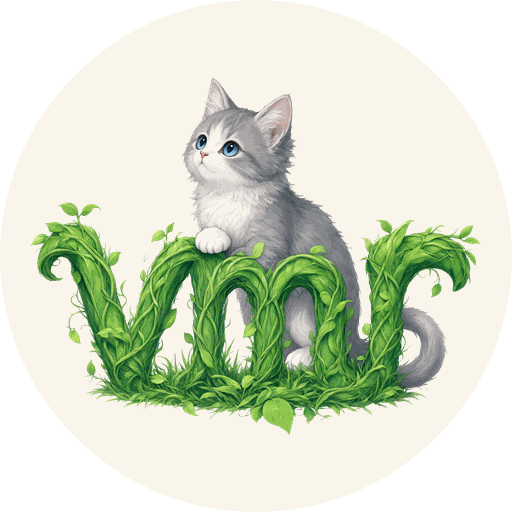
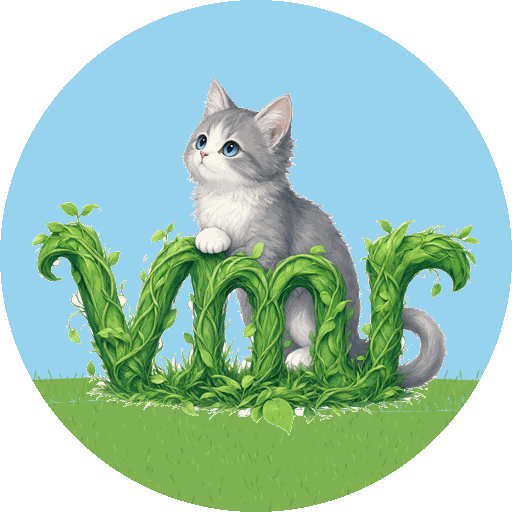
docs: update brand assets with sky-blue background

diff --git a/vmr/docs/brand/CREDITS.md b/vmr/docs/brand/CREDITS.md
@@ -2,10 +2,10 @@
 
 | file | purpose |
 |---|---|
-| `logo.png` | 1200×702 README banner: cream card with the illustration |
+| `logo.png` | 1200×702 README banner: sky-blue card with the illustration and grass |
 | `mark.png` | 512×512 avatar / favicon |
-| `cat-vines.png` | 1200×1030 transparent cut-out of the illustration, for compositing on any background |
+| `cat-vines.png` | 1200×957 transparent cut-out of the illustration, for compositing on any background |
 
 - Illustration: supplied by the project owner (cat sitting on "vmr" grown from vines).
-- Background removed by flood-fill keying of the flat white backdrop (interior whites kept),
-  then the art is placed on the cream card (`#FBF5EA`) and palette-optimised to 256 colours.
+- `logo.png` and `mark.png` use a sky-blue background and a grassy ground raised around the cat and vines.
+- Original images are backed up in `backup/`.
